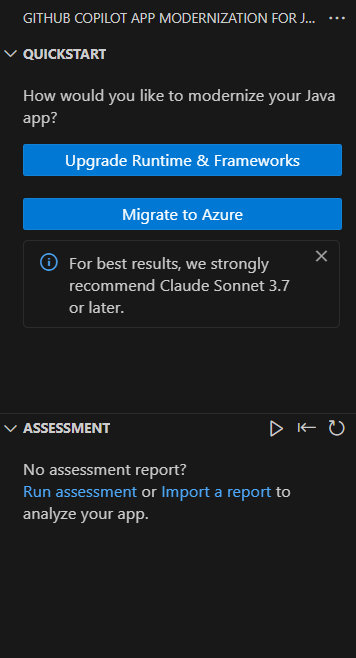
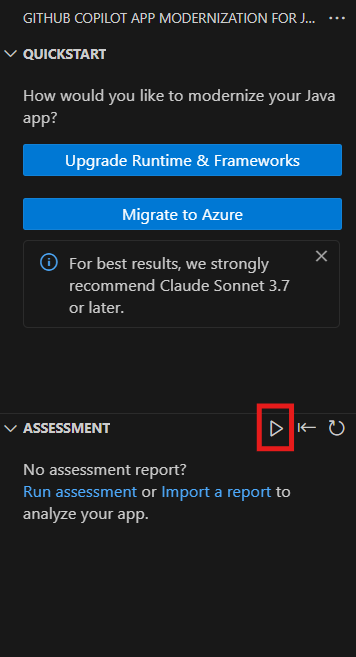
Readme Adjustments

diff --git a/README.md b/README.md
@@ -1,39 +1,53 @@
-# Workshop: migrate this project to Azure
+# Tech Summit FY26 Lab: GitHub Copilot App Modernization for Java - Migrate to Azure
+A short lab that walks through assessing and migrating the sample Java application "asset-manager" from AWS/RabbitMQ/Postgres to Azure Blob Storage, Azure Service Bus, and Azure Database for PostgreSQL using GitHub Copilot App Modernization for Java.
 
-- [Workshop: migrate this project to Azure](#workshop-migrate-this-project-to-azure)
-  - [About this Project](#about-this-project)
+- [Tech Summit FY26 Lab: GitHub Copilot App Modernization for Java - Migrate to Azure](#tech-summit-fy26-lab-github-copilot-app-modernization-for-java---migrate-to-azure)
+  - [Overview](#overview)
+  - [Audience \& Objectives](#audience--objectives)
+  - [Estimated time \& difficulty](#estimated-time--difficulty)
+  - [About the Project](#about-the-project)
     - [Original Infrastructure](#original-infrastructure)
     - [Original Architecture](#original-architecture)
     - [Migrated Infrastructure](#migrated-infrastructure)
     - [Migrated Architecture](#migrated-architecture)
   - [Prerequisites](#prerequisites)
-  - [Install GitHub Copilot App Modernization for Java (Preview)](#install-github-copilot-app-modernization-for-java-preview)
-  - [Migrate the Sample Java Application](#migrate-the-sample-java-application)
+  - [Lab: Migrate the Sample Java Application](#lab-migrate-the-sample-java-application)
     - [Assess Your Java Application](#assess-your-java-application)
-    - [Migrate to Azure Database for PostgreSQL Flexible Server using Predefined Formula](#migrate-to-azure-database-for-postgresql-flexible-server-using-predefined-formula)
-    - [Migrate to Azure Blob Storage and Azure Service Bus using Custom Formula](#migrate-to-azure-blob-storage-and-azure-service-bus-using-custom-formula)
-  - [Deploy to Azure](#deploy-to-azure)
-  - [Clean up](#clean-up)
+    - [Migrate to Azure Database for PostgreSQL Flexible Server](#migrate-to-azure-database-for-postgresql-flexible-server)
+    - [Migrate from AWS S3 to Azure Blob Storage](#migrate-from-aws-s3-to-azure-blob-storage)
+    - [Migrate from AMQP RabbitMQ to Azure Service Bus](#migrate-from-amqp-rabbitmq-to-azure-service-bus)
+    - [Completion](#completion)
+    - [Manual Verification \& Checkpoints:](#manual-verification--checkpoints)
+    - [Trouble Shooting](#trouble-shooting)
+      - [GHCP seems to be doing something unclear](#ghcp-seems-to-be-doing-something-unclear)
+  - [References \& resources](#references--resources)
 
-> [!IMPORTANT]
-> `GitHub Copilot App Modernization for Java` is in preview and is subject to change before becoming generally available.
 
-GitHub Copilot App Modernization for Java (Preview), also referred to as `App Modernization for Java`, assists with app assessment, planning and code remediation. It automates repetitive tasks, boosting developer confidence and speeding up the Azure migration and ongoing optimization.
+## Overview
+This hands-on lab demonstrates assessing and migrating a Java web + worker application to Azure using GitHub Copilot App Modernization for Java. The lab is organized as small focused tasks with verification points after each major step.
 
-In this workshop, you learn how to use GitHub Copilot App Modernization for Java (Preview) to assess and migrate a sample Java application `asset-manager` to Azure.
+GitHub Copilot App Modernization for Java, also referred to as `App Modernization for Java` or `AppMod`, assists with app assessment, planning and code remediation using a Visual Studio Code Extension and GitHub Copilot. 
+It automates repetitive tasks, boosting developer confidence and speeding up the Azure migration and ongoing optimization.
 
-## About this Project
 
-This application consists of two sub-modules, **Web** and **Worker**.  Both of them contain functions of using storage service and message queue. To demonstrate the migration process, this GitHub repository is mainly composed of 3 different branches:
+## Audience & Objectives
+- Audience: Cloud Solution Architects & Solution Engineers performing Java Cloud Migrations & Modernization.
+- Learning objectives:
+  - Run an automated assessment for cloud readiness.
+  - Apply Copilot-generated migrations for DB, storage, and messaging.
+  - Verify migrated code locally.
+  
+## Estimated time & difficulty
+- Estimated time: 60–90 minutes
+- Difficulty: Intermediate (familiarity with Java, Maven, VS Code, and Azure CLI recommended)
 
-- [`source`](https://github.com/Azure-Samples/java-migration-copilot-samples/tree/source/asset-manager) branch: The original project before being migrated to Azure service.
-- [`main`](https://github.com/Azure-Samples/java-migration-copilot-samples/tree/main/asset-manager) branch: Only the `web` module is migrated to use Azure service. This branch will be used for the workshop.
-- [`expected`](https://github.com/Azure-Samples/java-migration-copilot-samples/tree/expected/asset-manager) branch: The is the final migrated state, and both `web` and `worker` modules are migrated to Azure.
+## About the Project
+
+This application consists of two sub-modules, **Web** and **Worker**.  Both of them contain functions of using storage service and message queue.
 
 ### Original Infrastructure
 
-The project uses the following infrastructure, in [`source`](https://github.com/Azure-Samples/java-migration-copilot-samples/tree/source/asset-manager) branch:
-
+The project uses the following original infrastructure:
 * AWS S3 for image storage, using password-based authentication (access key/secret key)
 * RabbitMQ for message queuing, using password-based authentication
 * PostgreSQL database for metadata storage, using password-based authentication
@@ -193,27 +207,14 @@ To successfully complete this workshop, you need the following:
 - [VSCode](https://code.visualstudio.com/): The latest version is recommended.
 - [A Github account with Github Copilot enabled](https://github.com/features/copilot): All plans are supported, including the Free plan.
 - [GitHub Copilot extension in VSCode](https://code.visualstudio.com/docs/copilot/overview): The latest version is recommended.
+- [GitHub Copilot app modernization for Java Extension](https://marketplace.visualstudio.com/items?itemName=vscjava.migrate-java-to-azure): The extension needed for migration
 - [AppCAT](https://aka.ms/appcat-install): Required for the app assessment feature.
 - [JDK 21](https://learn.microsoft.com/en-us/java/openjdk/download#openjdk-21): Required for the code remediation feature and running the initial application locally.
 - [Maven 3.9.9](https://maven.apache.org/install.html): Required for the assessment and code remediation feature.
-- [Azure subscription](https://azure.microsoft.com/free/): Required to deploy the migrated application to Azure.
-- [Azure CLI](https://docs.microsoft.com/cli/azure/install-azure-cli): Required if you deploy the migrated application to Azure locally. The latest version is recommended.
-- Fork the [GitHub repository](https://github.com/Azure-Samples/java-migration-copilot-samples) that contains the sample Java application. Please ensure to **uncheck** the default selection "Copy the `main` branch only". Clone it to your local machine. Open the `asset-manager` folder in VSCode and checkout the `main` branch.
+- [Azure subscription](https://azure.microsoft.com/free/): Required if you want to deploy the migrated application to Azure.
+- [Azure CLI](https://docs.microsoft.com/cli/azure/install-azure-cli): Required if you want to deploy the migrated application to Azure locally. The latest version is recommended.
 
-## Install GitHub Copilot App Modernization for Java (Preview)
-
-In VSCode, open the Extensions view from Activity Bar, search `GitHub Copilot App Modernization for Java` extension in marketplace. Select the Install button on the extension. After installation completes, you should see a notification in the bottom-right corner of VSCode confirming success.
-
-In VSCode, configure runtime arguments to enable the proposed API:
-```json
-  "enable-proposed-api": ["Microsoft.migrate-java-to-azure"],
-```
-1. Press **Ctrl+Shift+P** and select **Preferences: Configure Runtime Arguments**.
-2. Add the above JSON snippet into the editor and save.
-3. Restart VSCode.
-
-
-## Migrate the Sample Java Application
+## Lab: Migrate the Sample Java Application
 
 The following sections guide you through the process of migrating the sample Java application `asset-manager` to Azure using GitHub Copilot App Modernization for Java (Preview).
 
@@ -222,7 +223,7 @@ The following sections guide you through the process of migrating the sample Jav
 The first step is to assess the sample Java application `asset-manager`. The assessment provides insights into the application's readiness for migration to Azure.
 
 1. Open the VS code with all the prerequisites installed on the asset manager by changing the directory to the `asset-manager` directory and running `code .` in that directory.
-2. Open the extension `App Modernization for Java`.
+2. Open the extension `GitHub Copilot App Modernization for Java`.
 3. Hover the mouse over the **Assessment** section and click **Assess** button which looks like a triangle pointing right. Then, the Github Copilot Chat window will be opened and propose to run Modernization Assessor. Please confirm the tool usage by clicking **Continue**.
    
    ![Trigger Assessment](doc-media/1.trigger-assessment.png)
@@ -251,7 +252,7 @@ The first step is to assess the sample Java application `asset-manager`. The ass
 
 9. Review the **Summary** report. Take a look at the **Cloud Readiness** report under the **Issues** tab to view the proposed solutions for the issues identified in the summary report.
 
-## Migrate to Azure Database for PostgreSQL Flexible Server
+### Migrate to Azure Database for PostgreSQL Flexible Server
 
 1. For this workshop, we will start with the **Database Migration**. 
 Select **Migrate to Azure Database for PostgreSQL (SDK on Public Cloud)** in the Solution report dropdown on the right.
@@ -281,7 +282,7 @@ Select **Migrate to Azure Database for PostgreSQL (SDK on Public Cloud)** in the
 1. Once GitHub Copilot provides oyu with next recommended actions after the **Summary** has been generated, this part of the lab is concluded.
 1. Take a look at the **summary.md** file to review the changes. `.github/appmod-java/code-migration/managed-identity-azure-sdk-public-cloud/mi-postgresql-azure-sdk-public-cloud/summary.md`
 
-## Migrate from AWS S3 to Azure Blob Storage
+### Migrate from AWS S3 to Azure Blob Storage
 
 The Application `asset-manager` uses AWS S3 for image storage. Let's move to Azure Blob Storage instead.
 
@@ -297,7 +298,7 @@ We will **Migrate from AWS S3 to Azure Blob Storage**.
 
    ![Storage Migration Code Update](doc-media/8.1.appmod-storage-code-update-1.png)
 
-## Migrate from AMQP RabbitMQ to Azure Service Bus
+### Migrate from AMQP RabbitMQ to Azure Service Bus
 The Application `asset-manager` uses Spring AMQP with RabbitMQ for message queuing.  Let's move to Azure Service Bus instead.
 
 1. For this part of the workshop, we will take a look at the **Messaging Service Migration**. 
@@ -309,77 +310,43 @@ We will **Migrate from AMQP RabbitMQ to Azure Service Bus**.
 1. GHCP will continue to run `appmod-run-task`, `appmod-fetch-knowledgebase`,`appmod-search-file` and other tasks using the MCP Server. During each step, please manually click **Continue** repeatedly to allow, confirm and proceed. The Copilot Agent uses various tools to facilitate application modernization. Each tool's usage requires confirmation by clicking the `Continue` button.
 1. Review the proposed code changes and click **Keep** to apply them.
 
-## Deploy to Azure
-At this point, you have successfully migrated the sample Java application `asset-manager` to Migrate to Azure Database for PostgreSQL (SDK on Public Cloud), Azure Blob Storage, and Azure Service Bus. 
+### Completion
 
-> The Lab is over.
+Congratulations — you completed the lab!
 
-Now you are free to can deploy the migrated application to Azure using the Azure CLI after you identify a working location for your Azure resources.
+- You ran an automated assessment and applied Copilot-generated migrations for database, storage, and messaging.
+- You reviewed and accepted the generated code changes and migration summary.
 
-For example, an Azure Database for PostgreSQL Flexible Server requires a location that supports the service. Follow the instructions below to find a suitable location.
+**Next steps**
+- You are free to deploy the migrated application to Azure using the provided deployment scripts in the [main repo](https://github.com/Azure-Samples/java-migration-copilot-samples/tree/main/asset-manager/scripts):
+ (`scripts\deploy-to-azure.cmd` or `scripts/deploy-to-azure.sh`).
+- Explore the `expected` branch to compare the final migrated state and learn from the changes.
+- When finished, run the cleanup script to remove Azure resources (`scripts\cleanup-azure-resources.cmd` or `scripts/cleanup-azure-resources.sh`).
 
-1. Run the following command to list all available locations for the current subscription.
+**Resources**
+- Review `.github/appmod-java/.../summary.md` and `plan.md` for migration details.
+- See the References & resources section above for SDK and CLI documentation.
 
-   ```bash
-   az account list-locations -o table
-   ```
+**Well done!**
+We hope this lab improved your confidence with App Modernization for Java and Azure migrations.
 
-1. Select a location from column **Name** in the output.
+### Manual Verification & Checkpoints:
+After each major step you can run for build checks:
+`
+mvn -f web/ clean package
+mvn -f worker/ clean package
+`
 
-1. Run the following command to list all available SKUs in the selected location for Azure Database for PostgreSQL Flexible Server:
+### Trouble Shooting
 
-   ```bash
-   az postgres flexible-server list-skus --location <your location> -o table
-   ```
+#### GHCP seems to be doing something unclear
+Go and take a look at `.github/appmod-java/code-migration/managed-identity-azure-sdk-public-cloud/progress.md` and `.github/appmod-java/code-migration/managed-identity-azure-sdk-public-cloud/plan.md`. 
+You will find the **Migration Session ID** in `plan.md` which you can always use to refer to the current migration plan. 
 
-1. If you see the output contains the SKU `Standard_B1ms` and the **Tier** is `Burstable`, you can use the location for the deployment. Otherwise, try another location.
+## References & resources
+- [GitHub Copilot App Modernization for Java](https://marketplace.visualstudio.com/items?itemName=vscjava.migrate-java-to-azure)
+- [Azure CLI docs](https://learn.microsoft.com/cli/azure/)
+- [Azure Database for PostgreSQL](https://learn.microsoft.com/en-us/azure/postgresql/)
+- [Azure Blob Storage SDK for Java](https://learn.microsoft.com/en-us/azure/storage/blobs/storage-blob-java-get-started?tabs=azure-ad)
+- [Azure Service Bus SDK for Java](https://learn.microsoft.com/en-us/azure/service-bus-messaging/service-bus-java-how-to-use-queues?tabs=passwordless)
 
-   ```text
-   SKU                Tier             VCore    Memory    Max Disk IOPS
-   -----------------  ---------------  -------  --------  ---------------
-   Standard_B1ms      Burstable        1        2 GiB     640e
-   ```
-
-You can either run the deployment script locally or use the GitHub Codespaces. The recommended approach is to run the deployment script in the GitHub Codespaces, as it provides a ready-to-use environment with all the necessary dependencies.
-
-Deploy using GitHub Codespaces:
-1. Commit and push the changes to your forked repository.
-1. Follow instructions in [Use GitHub Codespaces for Deployment](README.md#use-github-codespaces-for-deployment) to deploy the app to Azure.
-
-Deploy using local environment by running the deployment script in the terminal:
-1. Run `az login` to sign in to Azure.
-1. Run the following commands to deploy the app to Azure:
-
-   Windows:
-   ```batch
-   scripts\deploy-to-azure.cmd -ResourceGroupName <your resource group name> -Location <your resource group location, e.g., eastus2> -Prefix <your unique resource prefix>
-   ```
-
-   Linux:
-   ```bash
-   scripts/deploy-to-azure.sh -ResourceGroupName <your resource group name> -Location <your resource group location, e.g., eastus2> -Prefix <your unique resource prefix>
-   ```
-
-Once the deployment script completes successfully, it outputs the URL of the Web application. Open the URL in a browser to verify if the application is running as expected.
-
-## Clean up
-
-When no longer needed,  you can delete all related resources using the following scripts.
-
-Windows:
-```batch
-scripts\cleanup-azure-resources.cmd -ResourceGroupName <your resource group name>
-```
-
-Linux:
-```bash
-scripts/cleanup-azure-resources.sh -ResourceGroupName <your resource group name>
-```
-
-If you deploy the app using GitHub Codespaces, delete the Codespaces environment by navigating to your forked repository in GitHub and selecting **Code** > **Codespaces** > **Delete**.
-
-
-# Trouble Shooting
-
-## GHCP seems to be doing something weird
-Go and take a look at `.github/appmod-java/code-migration/managed-identity-azure-sdk-public-cloud/progress.md` and `.github/appmod-java/code-migration/managed-identity-azure-sdk-public-cloud/plan.md`. You will find the **Migration Session ID** in `plan.md` which you can always use to refer to the current migration plan. 
